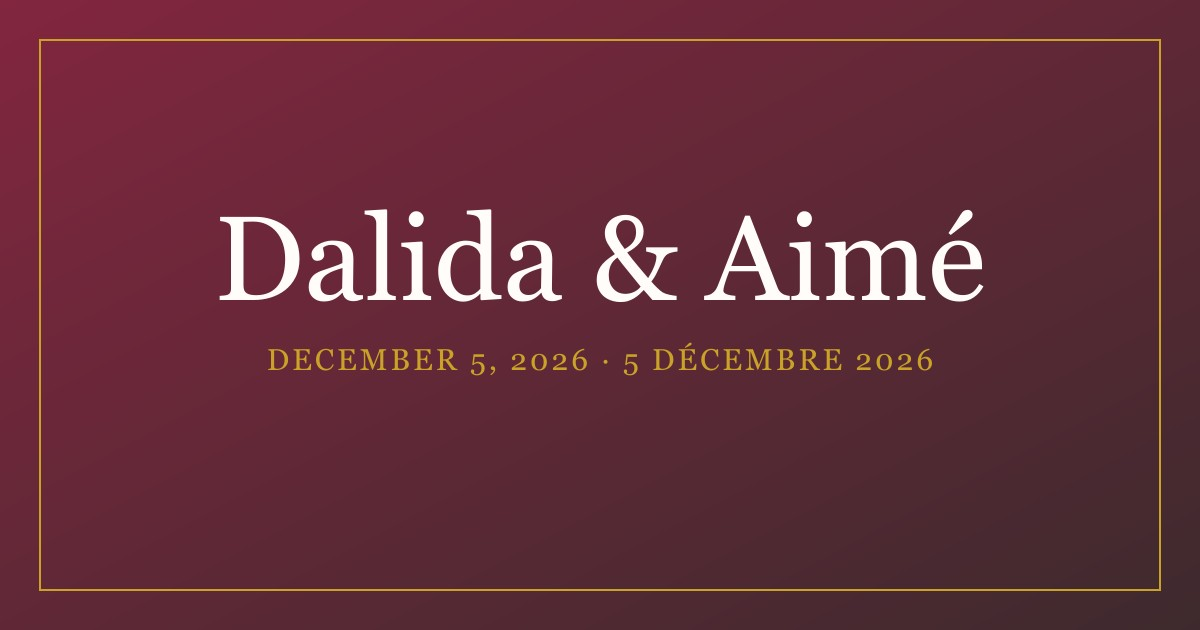
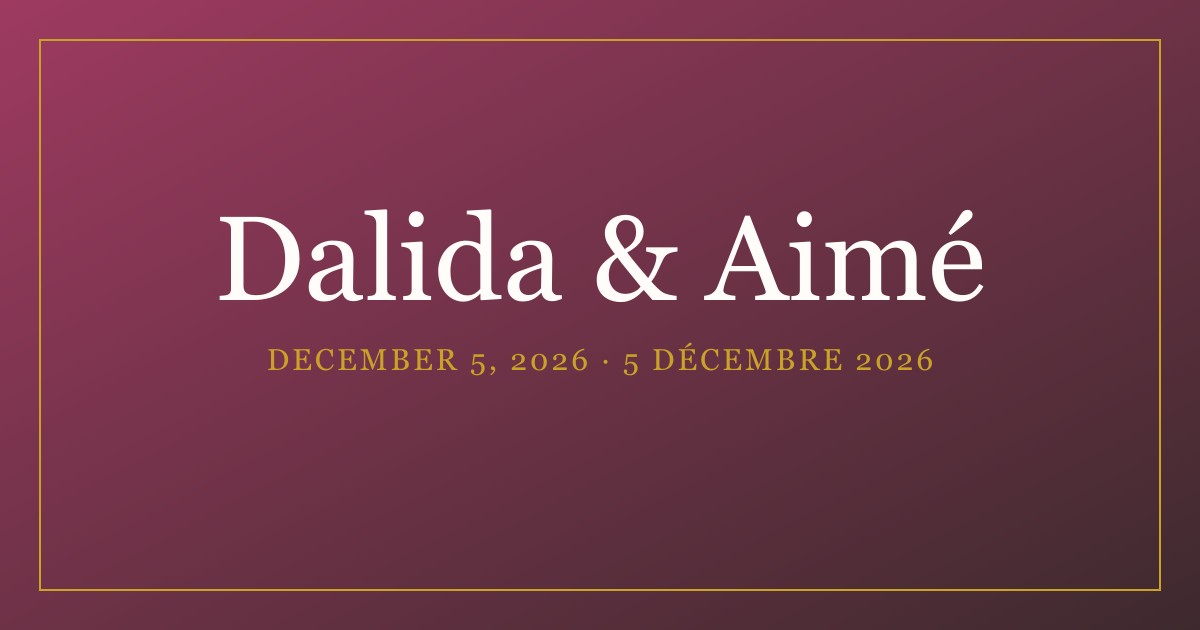
Split the palette into a bright pink for fills and a deep pink for text-bearing surfaces
The client said the pink still reads as red/wine for the third time. #A83A56/#82263F
measured as wine-hued at low lightness. New primary (#D06C90) and primaryDeep
(#9E3A60) both measure in the pink hue range (~337°), with primary reserved for
fills/ornaments/large headings and primaryDeep for anything carrying small or
white text (buttons, labels, the names badge, calendar heart, dahlia band).

Also fixed two hardcoded off-palette colors that weren't wired to the theme at
all: the hero badge's calla lily petals (#a8215f/#7a1746, genuinely reddish) and
the dahlia band's black-mixed background, both now derive from the theme.

Bonus: favicon initials were "A&S" instead of "D&A" — fixed to match config.

Changed region(s): [[0.0, 0.0, 0.555, 0.5429], [0.2467, 0.3921, 0.2775, 0.4222]]

diff --git a/src/utils/icons.js b/src/utils/icons.js
@@ -231,8 +231,11 @@ function scallopPath(cx, cy, rx, ry, bumps, ampRatio, archBoost = 0) {
 // identically since the hero section sits on a flat, untextured cream
 // background right where the badge lives).
 export function badgeCartoucheSVG() {
+  // primaryDeep, not primary: the badge carries cream text directly on top
+  // (names, and the small DAY/MONTH date labels) — same reasoning as the
+  // calendar heart icon below.
   return `<svg class="hero-badge-svg" viewBox="0 0 100 66" preserveAspectRatio="none" aria-hidden="true">
-    <rect x="1.5" y="1.5" width="97" height="63" rx="13" ry="18" fill="var(--color-primary)" />
+    <rect x="1.5" y="1.5" width="97" height="63" rx="13" ry="18" fill="var(--color-primary-deep)" />
     <circle cx="1.5" cy="1.5" r="8" fill="var(--color-background)" />
     <circle cx="98.5" cy="1.5" r="8" fill="var(--color-background)" />
     <circle cx="1.5" cy="64.5" r="8" fill="var(--color-background)" />
@@ -279,8 +282,8 @@ export function wisteriaClusterSVG() {
 // floral corner.
 export function callaLilyClusterSVG() {
   const lily = (x, y, rot, scale) => `<g transform="translate(${x} ${y}) rotate(${rot}) scale(${scale})">
-    <path d="M0 0 C -14 4, -16 22, -2 34 C 4 24, 4 10, 0 0 Z" fill="#a8215f" />
-    <path d="M0 2 C -6 8, -6 18, 0 26" fill="none" stroke="#7a1746" stroke-width="1.4" opacity="0.6" />
+    <path d="M0 0 C -14 4, -16 22, -2 34 C 4 24, 4 10, 0 0 Z" fill="var(--color-primary-deep)" />
+    <path d="M0 2 C -6 8, -6 18, 0 26" fill="none" stroke="var(--color-primary)" stroke-width="1.4" opacity="0.6" />
     <line x1="0" y1="0" x2="4" y2="30" stroke="var(--color-accent-soft)" stroke-width="2" />
   </g>`;
   return `<svg class="hero-floral-svg" viewBox="0 0 100 140" aria-hidden="true">
@@ -373,7 +376,7 @@ export function hallIllustrationSVG() {
   </svg>`;
 }
 
-// Dense wine/burgundy dahlia-bloom band — a placeholder for a real
+// Dense pink/gold dahlia-bloom band — a placeholder for a real
 // photographic floral strip (see NOTES.md asset list), acting as a rich
 // section divider before RSVP. Each "bloom" is a ring of overlapping
 // petal ellipses around a dark center, tiled with jitter so the repeat
@@ -409,14 +412,14 @@ export function dahliaBandSVG() {
   }).join("");
 
   return `<svg class="dahlia-band-svg" viewBox="0 0 400 90" preserveAspectRatio="xMidYMid slice" aria-hidden="true">
-    <rect width="400" height="90" fill="color-mix(in srgb, var(--color-primary-deep) 55%, black 45%)" />
+    <rect width="400" height="90" fill="var(--color-primary-deep)" />
     ${blooms}
     ${flecks}
   </svg>`;
 }
 
-// Glossy 3D-look burgundy wax-seal heart for the closing section — a
-// radial-gradient fill (light highlight upper-left, dark burgundy edges)
+// Glossy 3D-look pink wax-seal heart for the closing section — a
+// radial-gradient fill (light highlight upper-left, deep pink edges)
 // plus a small white gloss ellipse overlay, standing in for the reference's
 // raised/highlighted wax-seal heart rather than a flat outline icon.
 export function waxSealHeartSVG() {

diff --git a/src/styles/main.css b/src/styles/main.css
@@ -312,7 +312,7 @@ svg { display: block; }
   border-radius: 50%;
   background: rgba(255, 255, 255, 0.85);
   backdrop-filter: blur(6px);
-  color: var(--color-primary);
+  color: var(--color-primary-deep);
   display: flex;
   align-items: center;
   justify-content: center;
@@ -565,7 +565,9 @@ svg { display: block; }
   padding: 0 var(--gutter);
   font-family: var(--font-script);
   font-size: 1.3rem;
-  color: var(--color-primary);
+  /* Below the WCAG large-text size threshold at this weight, so it needs
+     the deeper pink to clear 4.5:1 rather than the brighter --color-primary. */
+  color: var(--color-primary-deep);
   position: relative;
   z-index: 1;
 }
@@ -799,8 +801,8 @@ svg { display: block; }
 .calendar-day-heart-icon {
   position: absolute;
   inset: 0;
-  /* Deeper rose (not the lighter --color-primary) so the cream number on
-     top clears readable contrast — measured ~4.2:1 vs ~2.8:1. */
+  /* Deeper rose (not the brighter --color-primary) so the cream number on
+     top clears readable contrast — measured ~6.5:1 vs ~3.3:1. */
   color: var(--color-primary-deep);
 }
 .calendar-day-heart-icon svg { width: 100%; height: 100%; }
@@ -1010,7 +1012,9 @@ svg { display: block; }
   height: 78px;
   border-radius: 50%;
   border: 1.5px solid var(--color-primary);
-  color: var(--color-primary);
+  /* Deep, not bright — the small uppercase .countdown-label inherits this
+     and needs 4.5:1; the ring border above stays the brighter --color-primary. */
+  color: var(--color-primary-deep);
   display: flex;
   flex-direction: column;
   align-items: center;
@@ -1110,7 +1114,7 @@ svg { display: block; }
   font-size: 0.88rem;
   text-transform: uppercase;
   letter-spacing: 0.06em;
-  color: var(--color-primary);
+  color: var(--color-primary-deep);
   margin-bottom: 6px;
   font-weight: 600;
 }
@@ -1188,7 +1192,7 @@ svg { display: block; }
 .stepper-btn {
   width: 22px;
   height: 22px;
-  color: var(--color-primary);
+  color: var(--color-primary-deep);
   font-size: 1.2rem;
   display: flex;
   align-items: center;
@@ -1205,7 +1209,7 @@ svg { display: block; }
   display: flex;
   align-items: center;
   justify-content: center;
-  color: var(--color-primary);
+  color: var(--color-primary-deep);
 }
 
 .guests-field { display: flex; flex-direction: column; align-items: center; }
@@ -1367,7 +1371,9 @@ svg { display: block; }
 .closing-waiting {
   font-family: var(--font-script);
   font-size: clamp(1.2rem, 5.5vw, 1.5rem);
-  color: var(--color-primary);
+  /* Below the WCAG large-text threshold on mobile, so it needs the deeper
+     pink to clear 4.5:1 rather than the brighter --color-primary. */
+  color: var(--color-primary-deep);
   max-width: 160px;
   text-align: left;
 }

diff --git a/src/styles/theme.css b/src/styles/theme.css
@@ -11,16 +11,16 @@
   font-size: 106.25%;
 
   --color-background: #FFFCFA;
-  --color-surface: #FBEDEF;
+  --color-surface: #FCEFF3;
   --color-text: #3E2A2E;
-  --color-primary: #A83A56;
-  --color-primary-deep: #82263F;
+  --color-primary: #D06C90;
+  --color-primary-deep: #9E3A60;
   --color-accent: #C9A227;
   --color-accent-soft: #E5CE9A;
-  --color-envelope: #E7A4B4;
+  --color-envelope: #F2A8C0;
 
-  --color-primary-rgb: 168, 58, 86;
-  --color-primary-deep-rgb: 130, 38, 63;
+  --color-primary-rgb: 208, 108, 144;
+  --color-primary-deep-rgb: 158, 58, 96;
   --color-accent-rgb: 201, 162, 39;
 
   --font-script: "Parisienne", cursive;

diff --git a/src/config.js b/src/config.js
@@ -133,13 +133,13 @@ export const config = {
 
   theme: {
     background: "#FFFCFA",
-    surface: "#FBEDEF",
+    surface: "#FCEFF3",
     text: "#3E2A2E",
-    primary: "#A83A56", // deep rose/raspberry
-    primaryDeep: "#82263F",
+    primary: "#D06C90", // clear, bright pink — fills, hearts, borders, ornaments, large script headings. Never white/small text — only ~3.3:1 against white.
+    primaryDeep: "#9E3A60", // deeper pink — buttons/badges/fills carrying white or small text, links, pressed states
     accent: "#C9A227",
     accentSoft: "#E5CE9A",
-    envelope: "#E7A4B4",
+    envelope: "#F2A8C0",
   },
 
   music: {
